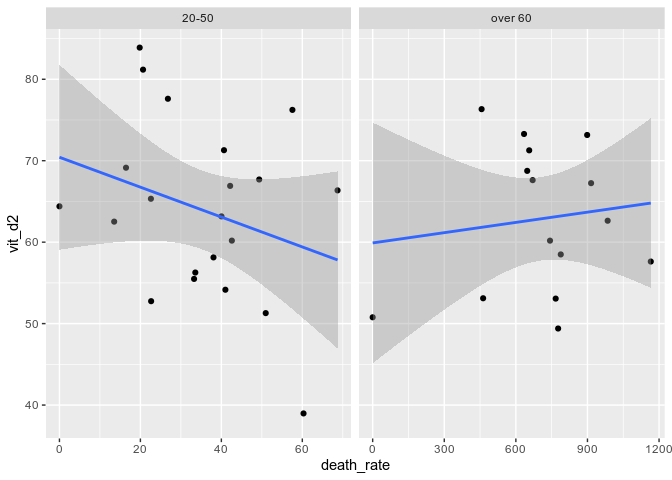
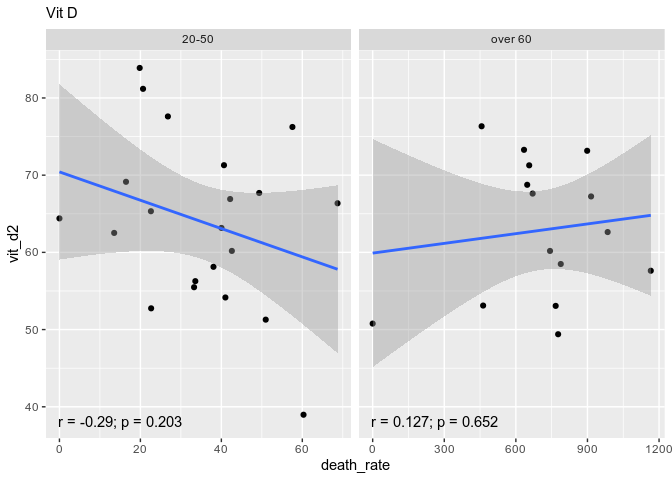
significance test added

diff --git a/02_1_vitd_analysis.md b/02_1_vitd_analysis.md
@@ -1,7 +1,7 @@
 Vitamin D Analysis
 ================
 Carlos Dobler
-Last update: March 03 2021 (10:06)
+Last update: March 03 2021 (13:58)
 
 Pre-processesing
 ================
